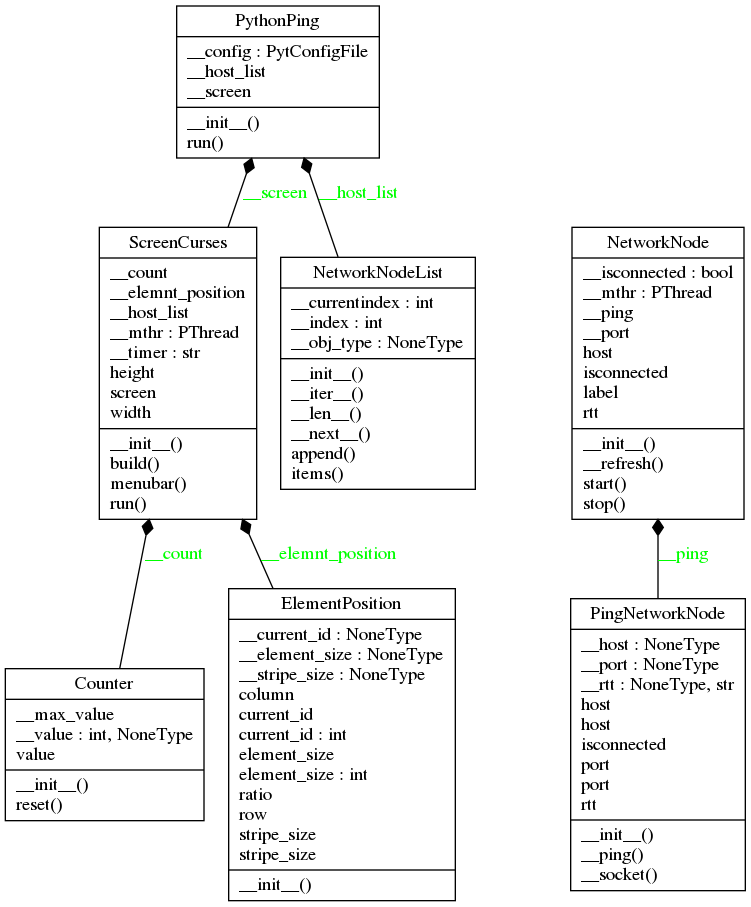
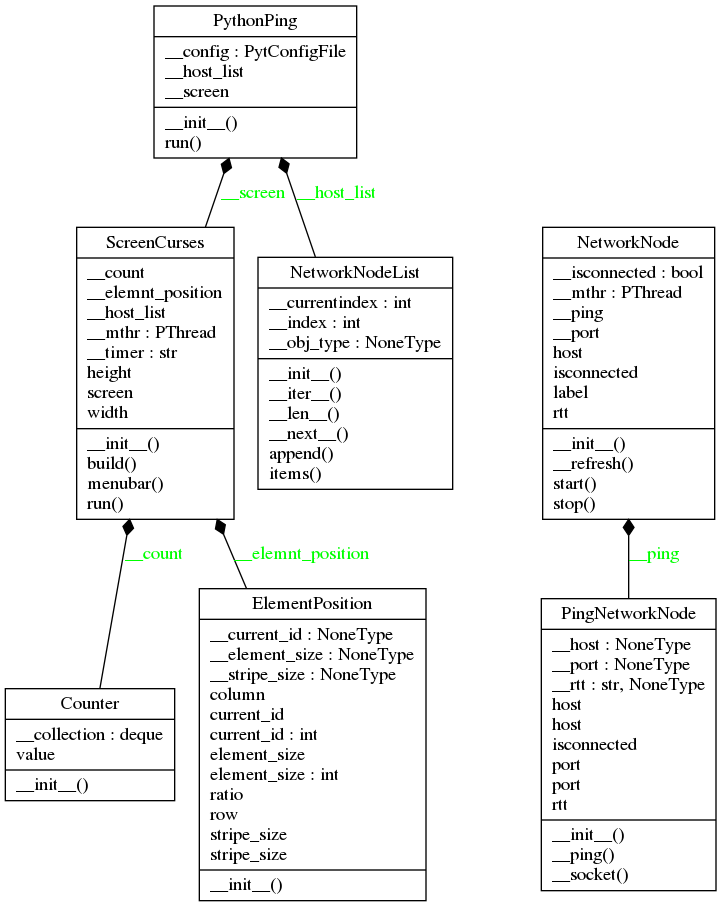
pytping==0.4.3

diff --git a/pytping/util/__about__.py b/pytping/util/__about__.py
@@ -10,14 +10,45 @@ This script is provided in the hope that it will be useful,
 but WITHOUT ANY WARRANTY; without even the implied warranty of
 MERCHANTABILITY or FITNESS FOR A PARTICULAR PURPOSE.
 """
+import json
+from pkg_resources import get_distribution
 
-__pkg_name__ = 'pytping'
-__version__ = '0.4.2'
-__author__ = 'Ko4lA'
-__email__ = 'francois@le.ko4la.fr'
-__description__ = 'The funniest ping tool'
-__python_version__ = '>=3.6'
+
+__pkg_name__ = __name__.split(".")[0]
+
+
+try:
+    ABOUT = json.loads(
+        get_distribution(__pkg_name__).get_metadata("metadata.json")
+    )
+    __version__ = ABOUT["version"]
+    __author__ = ABOUT["extensions"]["python.details"]["contacts"][0]["name"]
+    __email__ = ABOUT["extensions"]["python.details"]["contacts"][0]["email"]
+    __url__ = ABOUT["download_url"]
+    __license__ = ABOUT["license"]
+    __description__ = ABOUT["summary"]
+
+except FileNotFoundError:
+    try:
+        PKGINFO = get_distribution(__pkg_name__).get_metadata('METADATA')
+    except FileNotFoundError:
+        PKGINFO = get_distribution(__pkg_name__).get_metadata('PKG-INFO')
+
+    __version__ = get_distribution(__pkg_name__).version
+
+    from email import message_from_string
+    MSG = message_from_string(PKGINFO)
+    for key, value in MSG.items():
+        if key.startswith("Author-email"):
+            __email__ = value
+        elif key.startswith("Author"):
+            __author__ = value
+        elif key.startswith("Download-URL"):
+            __url__ = value
+        elif key.startswith("License"):
+            __license__ = value
+        elif key.startswith("Summary"):
+            __description__ = value
+
 __script__ = 'bin/pyt-ping.py'
 __script_description__ = "Ping tool..."
-__url__ = 'https://github.com/francois-le-ko4la/pyt-ping.git'
-__license__ = 'GPL3'

diff --git a/pytping/screen/counter.py b/pytping/screen/counter.py
@@ -11,6 +11,7 @@
   #####  #######  #####  #     #    #
 
 """
+from collections import deque
 
 
 class Counter(object):
@@ -24,6 +25,34 @@ class Counter(object):
       ^                                         |
       |                                         |
       +-----------------------------------------+
+
+
+    The first release was a done with basic idea:
+        if self.__value is (self.__max_value + 1):
+            self.reset()
+
+        result = self.__value
+        self.__value += 1
+        return result
+
+    Now we suggest a collection:
+        >>> from collections import deque
+        >>> c=deque(range(3))
+        >>> print(c)
+        deque([0, 1, 2])
+        >>> len(c)
+        3
+        >>> c[0]
+        0
+        >>> c.rotate(-1)
+        >>> c[0]
+        1
+        >>> c.rotate(-1)
+        >>> c[0]
+        2
+        >>> c.rotate(-1)
+        >>> c[0]
+        0
 
     Attributes:
         value (int): current value
@@ -45,9 +74,8 @@ class Counter(object):
 
     """
     def __init__(self, max_value):
-        self.__value = None
-        self.__max_value = max_value
-        self.reset()
+        self.__collection = deque(range(int(max_value + 1)))
+        self.__collection.rotate(1)
 
     @property
     def value(self):
@@ -55,21 +83,5 @@ class Counter(object):
         @Property:
             current value (int)
         """
-        if self.__value is (self.__max_value + 1):
-            self.reset()
-
-        result = self.__value
-        self.__value += 1
-        return result
-
-    def reset(self):
-        """
-        reset current value
-
-        Args:
-            None
-
-        Returns:
-            None
-        """
-        self.__value = 0
+        self.__collection.rotate(-1)
+        return self.__collection[0]

diff --git a/tests/test_doctest.py b/tests/test_doctest.py
@@ -16,7 +16,10 @@ import pathlib
 import doctest
 import unittest
 import subprocess
-from pytping import __about__
+from pytping.util import __about__
+
+
+blacklist = ["__about__.py"]
 
 
 class RunDocTest(unittest.TestCase):
@@ -42,12 +45,14 @@ sys.path.append(path)
 for current_file in list(path.glob('**/*.py')):
     current_file = pathlib.Path(current_file)
 
-    def ch(current_file):
-        return lambda self: self.run_doctest(current_file)
-    setattr(RunDocTest,
+    if current_file.name in blacklist is False:
+        def ch(current_file):
+            return lambda self: self.run_doctest(current_file)
+        setattr(
+            RunDocTest,
             "test_mod_{}".format(current_file.name),
             ch(str(current_file))
-            )
+        )
 
 
 if __name__ == "__main__":

diff --git a/setup.py b/setup.py
@@ -15,9 +15,13 @@ Test:
 import os
 from setuptools import setup
 from setuptools.config import read_configuration
+import warnings
+
+
+warnings.filterwarnings("ignore")
 
 cfg = read_configuration('./setup.cfg')
-#print(cfg)
+# print(cfg)
 cfg["options"].update(cfg["metadata"])
-cfg=cfg["options"]
-setup(use_scm_version = True, **cfg)
+cfg = cfg["options"]
+setup(use_scm_version=False, **cfg)

diff --git a/pytping/__init__.py b/pytping/__init__.py
@@ -158,6 +158,11 @@ With 4 network nodes:
 - [X] Run PEP8 validation
 - [X] Clean & last check
 - [X] Release
+- [X] change (un)install process
+- [X] remove MANIFEST.in
+- [X] manage global var: __version__....
+- [X] improve the doc
+- [X] Release 0.4.3
 
 ## License
 

diff --git a/pytping/screen/__init__.py b/pytping/screen/__init__.py
@@ -4,4 +4,3 @@
 from pytping.screen.position import ElementPosition
 from pytping.screen.counter import Counter
 from pytping.screen.curse import ScreenCurses
-

diff --git a/pytping/netnode/list.py b/pytping/netnode/list.py
@@ -10,6 +10,8 @@
  #    #  ######  #    #  #####   ######  #    #   ####
 
 """
+
+
 class NetworkNodeList(dict):
 
     """

diff --git a/README.md b/README.md
@@ -154,6 +154,11 @@ With 4 network nodes:
 - [X] Run PEP8 validation
 - [X] Clean & last check
 - [X] Release
+- [X] change (un)install process
+- [X] remove MANIFEST.in
+- [X] manage global var: __version__....
+- [X] improve the doc
+- [X] Release 0.4.3
 
 ## License
 
@@ -196,7 +201,6 @@ https://github.com/francois-le-ko4la/python-multithreading/archive/v0.1.0.tar.gz
 [@Property PingNetworkNode.isconnected](#property-pingnetworknodeisconnected)<br />
 [Counter()](#counter)<br />
 [@Property Counter.value](#property-countervalue)<br />
-[Counter.reset()](#counterreset)<br />
 [ScreenCurses()](#screencurses)<br />
 [ScreenCurses.menubar()](#screencursesmenubar)<br />
 [ScreenCurses.build()](#screencursesbuild)<br />
@@ -443,6 +447,34 @@ In the end, we restart the count.
   |                                         |
   +-----------------------------------------+
 
+
+The first release was a done with basic idea:
+    if self.__value is (self.__max_value + 1):
+        self.reset()
+
+    result = self.__value
+    self.__value += 1
+    return result
+
+Now we suggest a collection:
+    >>> from collections import deque
+    >>> c=deque(range(3))
+    >>> print(c)
+    deque([0, 1, 2])
+    >>> len(c)
+    3
+    >>> c[0]
+    0
+    >>> c.rotate(-1)
+    >>> c[0]
+    1
+    >>> c.rotate(-1)
+    >>> c[0]
+    2
+    >>> c.rotate(-1)
+    >>> c[0]
+    0
+
 Attributes:
     value (int): current value
 
@@ -470,20 +502,6 @@ def Counter.value(self):
 > <br />
 > <b>@Property:</b><br />
 > &nbsp;&nbsp;&nbsp;&nbsp;&nbsp;&nbsp;&nbsp;&nbsp;&nbsp;&nbsp;&nbsp;&nbsp;&nbsp;&nbsp;&nbsp;  current value (int)<br />
-> <br />
-##### Counter.reset()
-```python
-
-def Counter.reset(self):
-```
-> <br />
-> reset current value<br />
-> <br />
-> <b>Args:</b><br />
-> &nbsp;&nbsp;&nbsp;&nbsp;&nbsp;&nbsp;&nbsp;&nbsp;&nbsp;&nbsp;&nbsp;&nbsp;&nbsp;&nbsp;&nbsp;  None<br />
-> <br />
-> <b>Returns:</b><br />
-> &nbsp;&nbsp;&nbsp;&nbsp;&nbsp;&nbsp;&nbsp;&nbsp;&nbsp;&nbsp;&nbsp;&nbsp;&nbsp;&nbsp;&nbsp;  None<br />
 > <br />
 #### ScreenCurses()
 ```python
